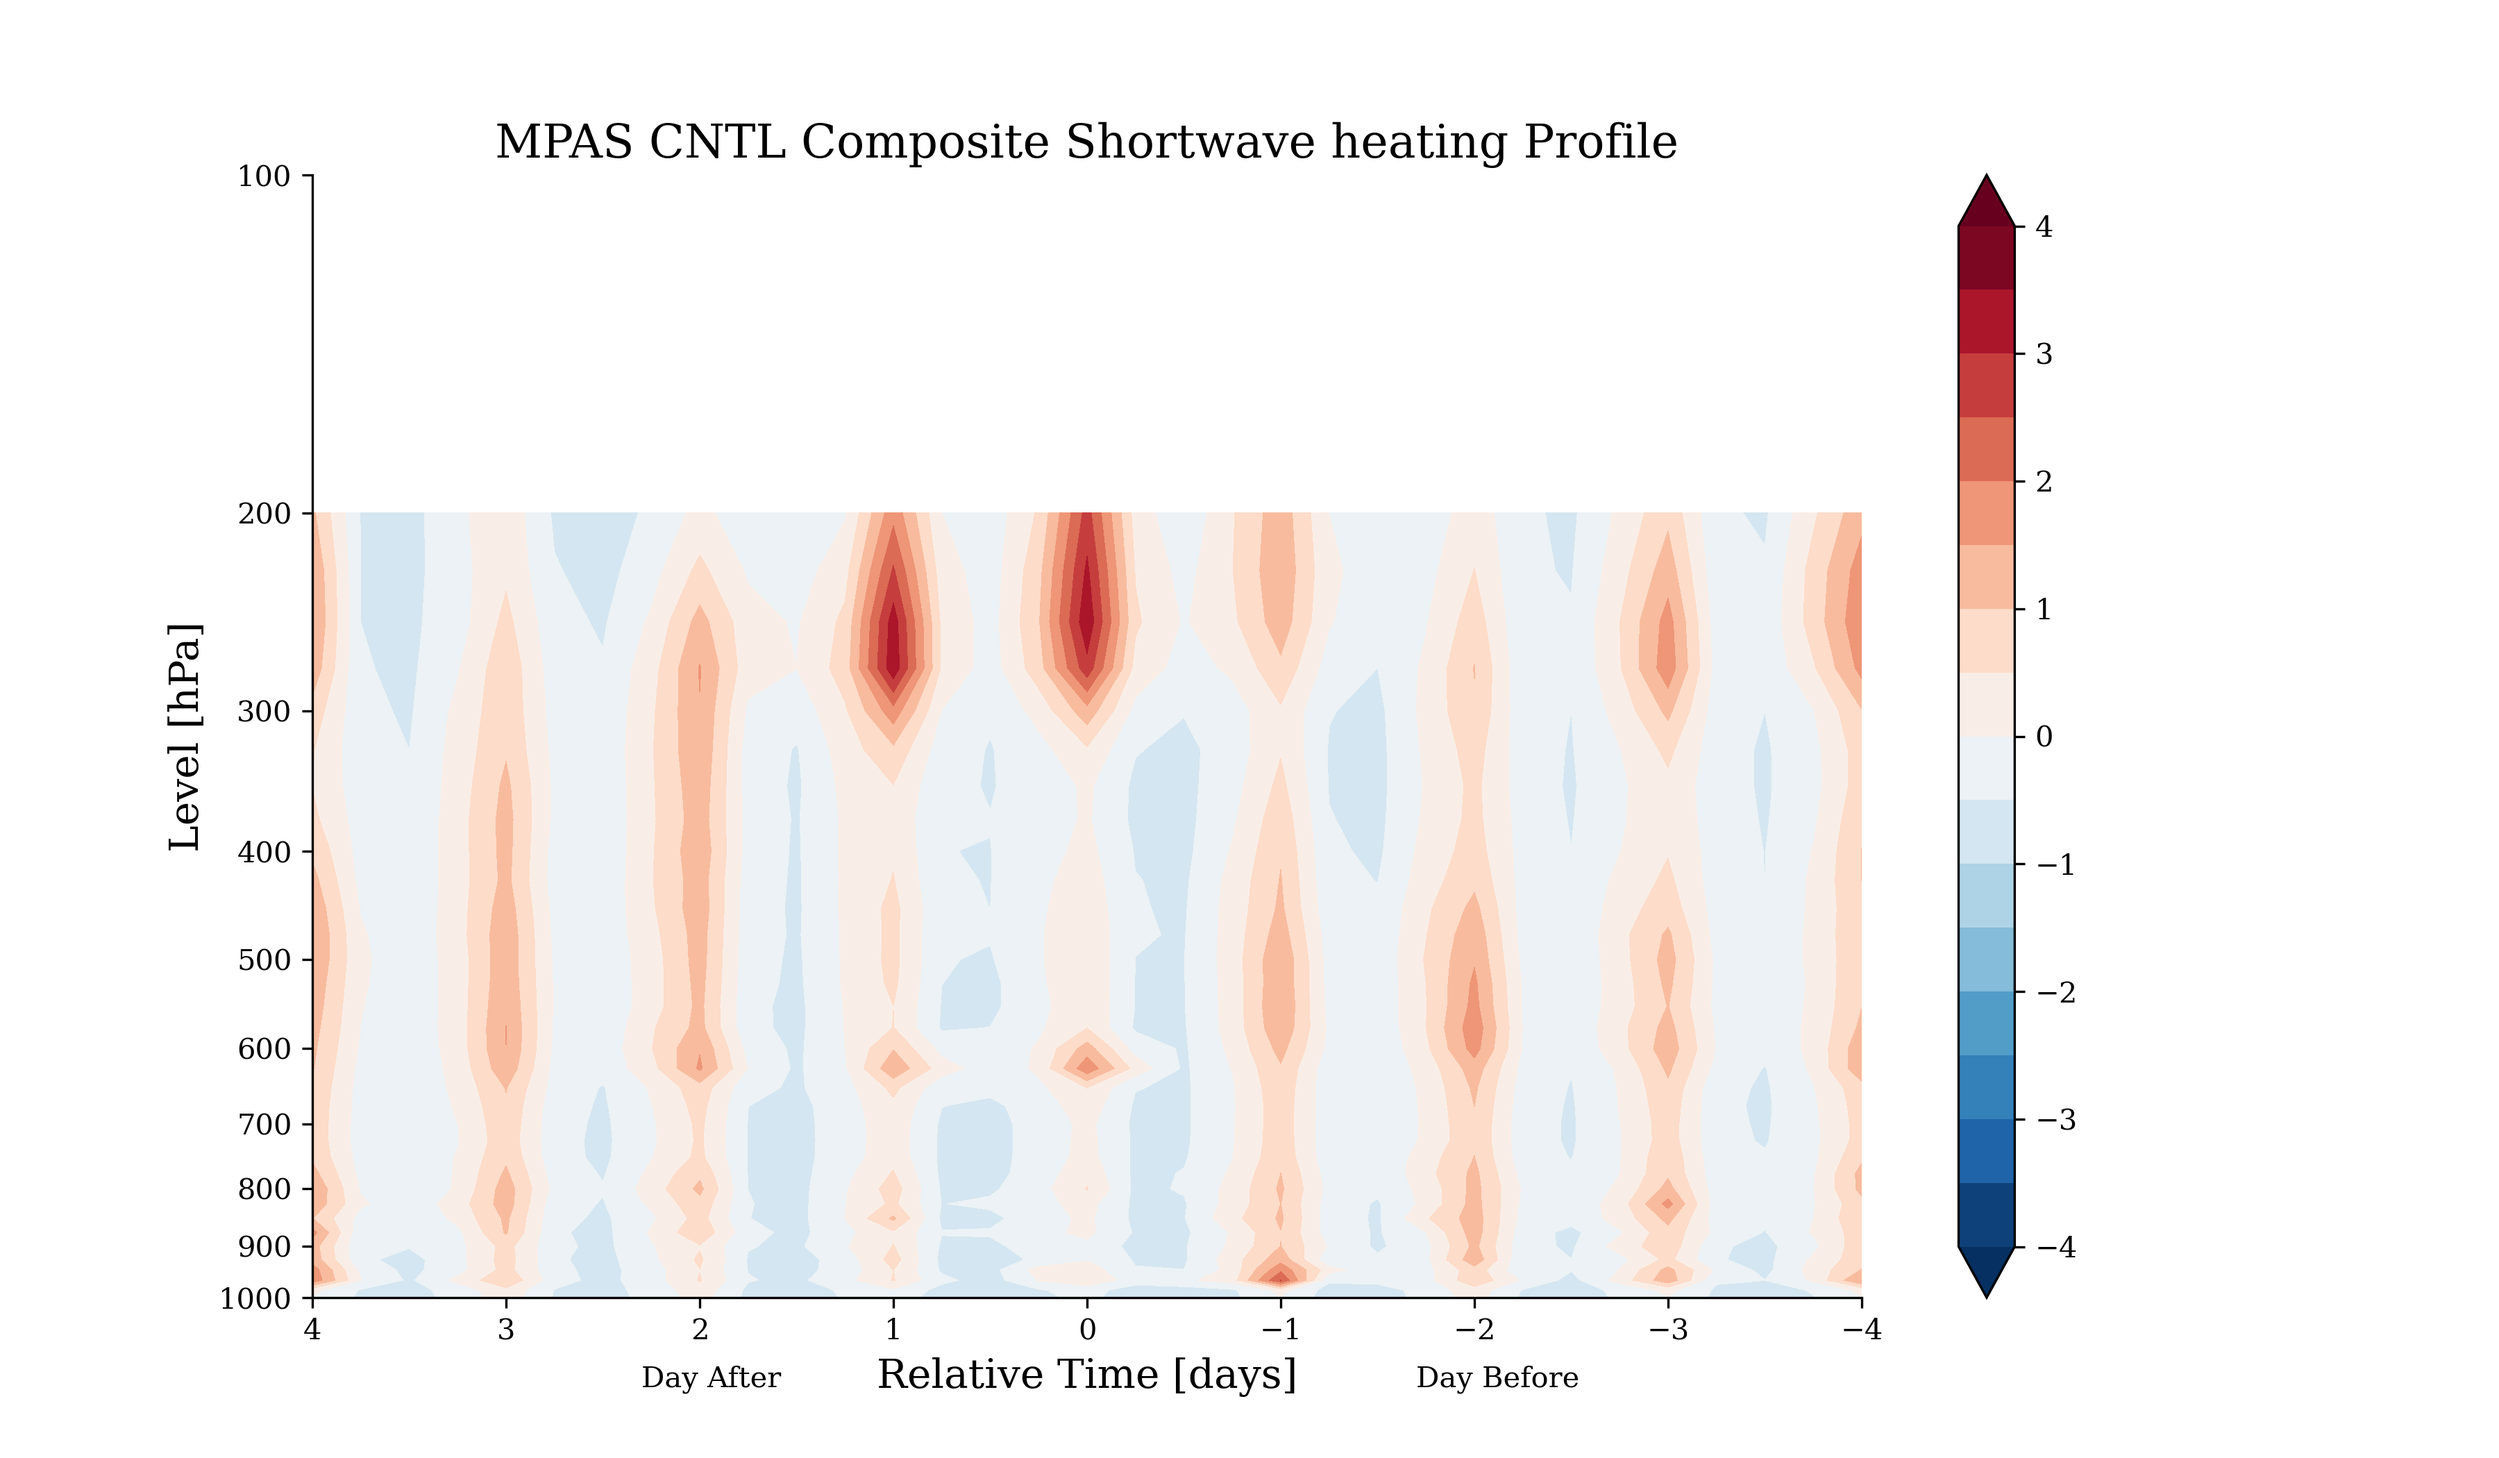
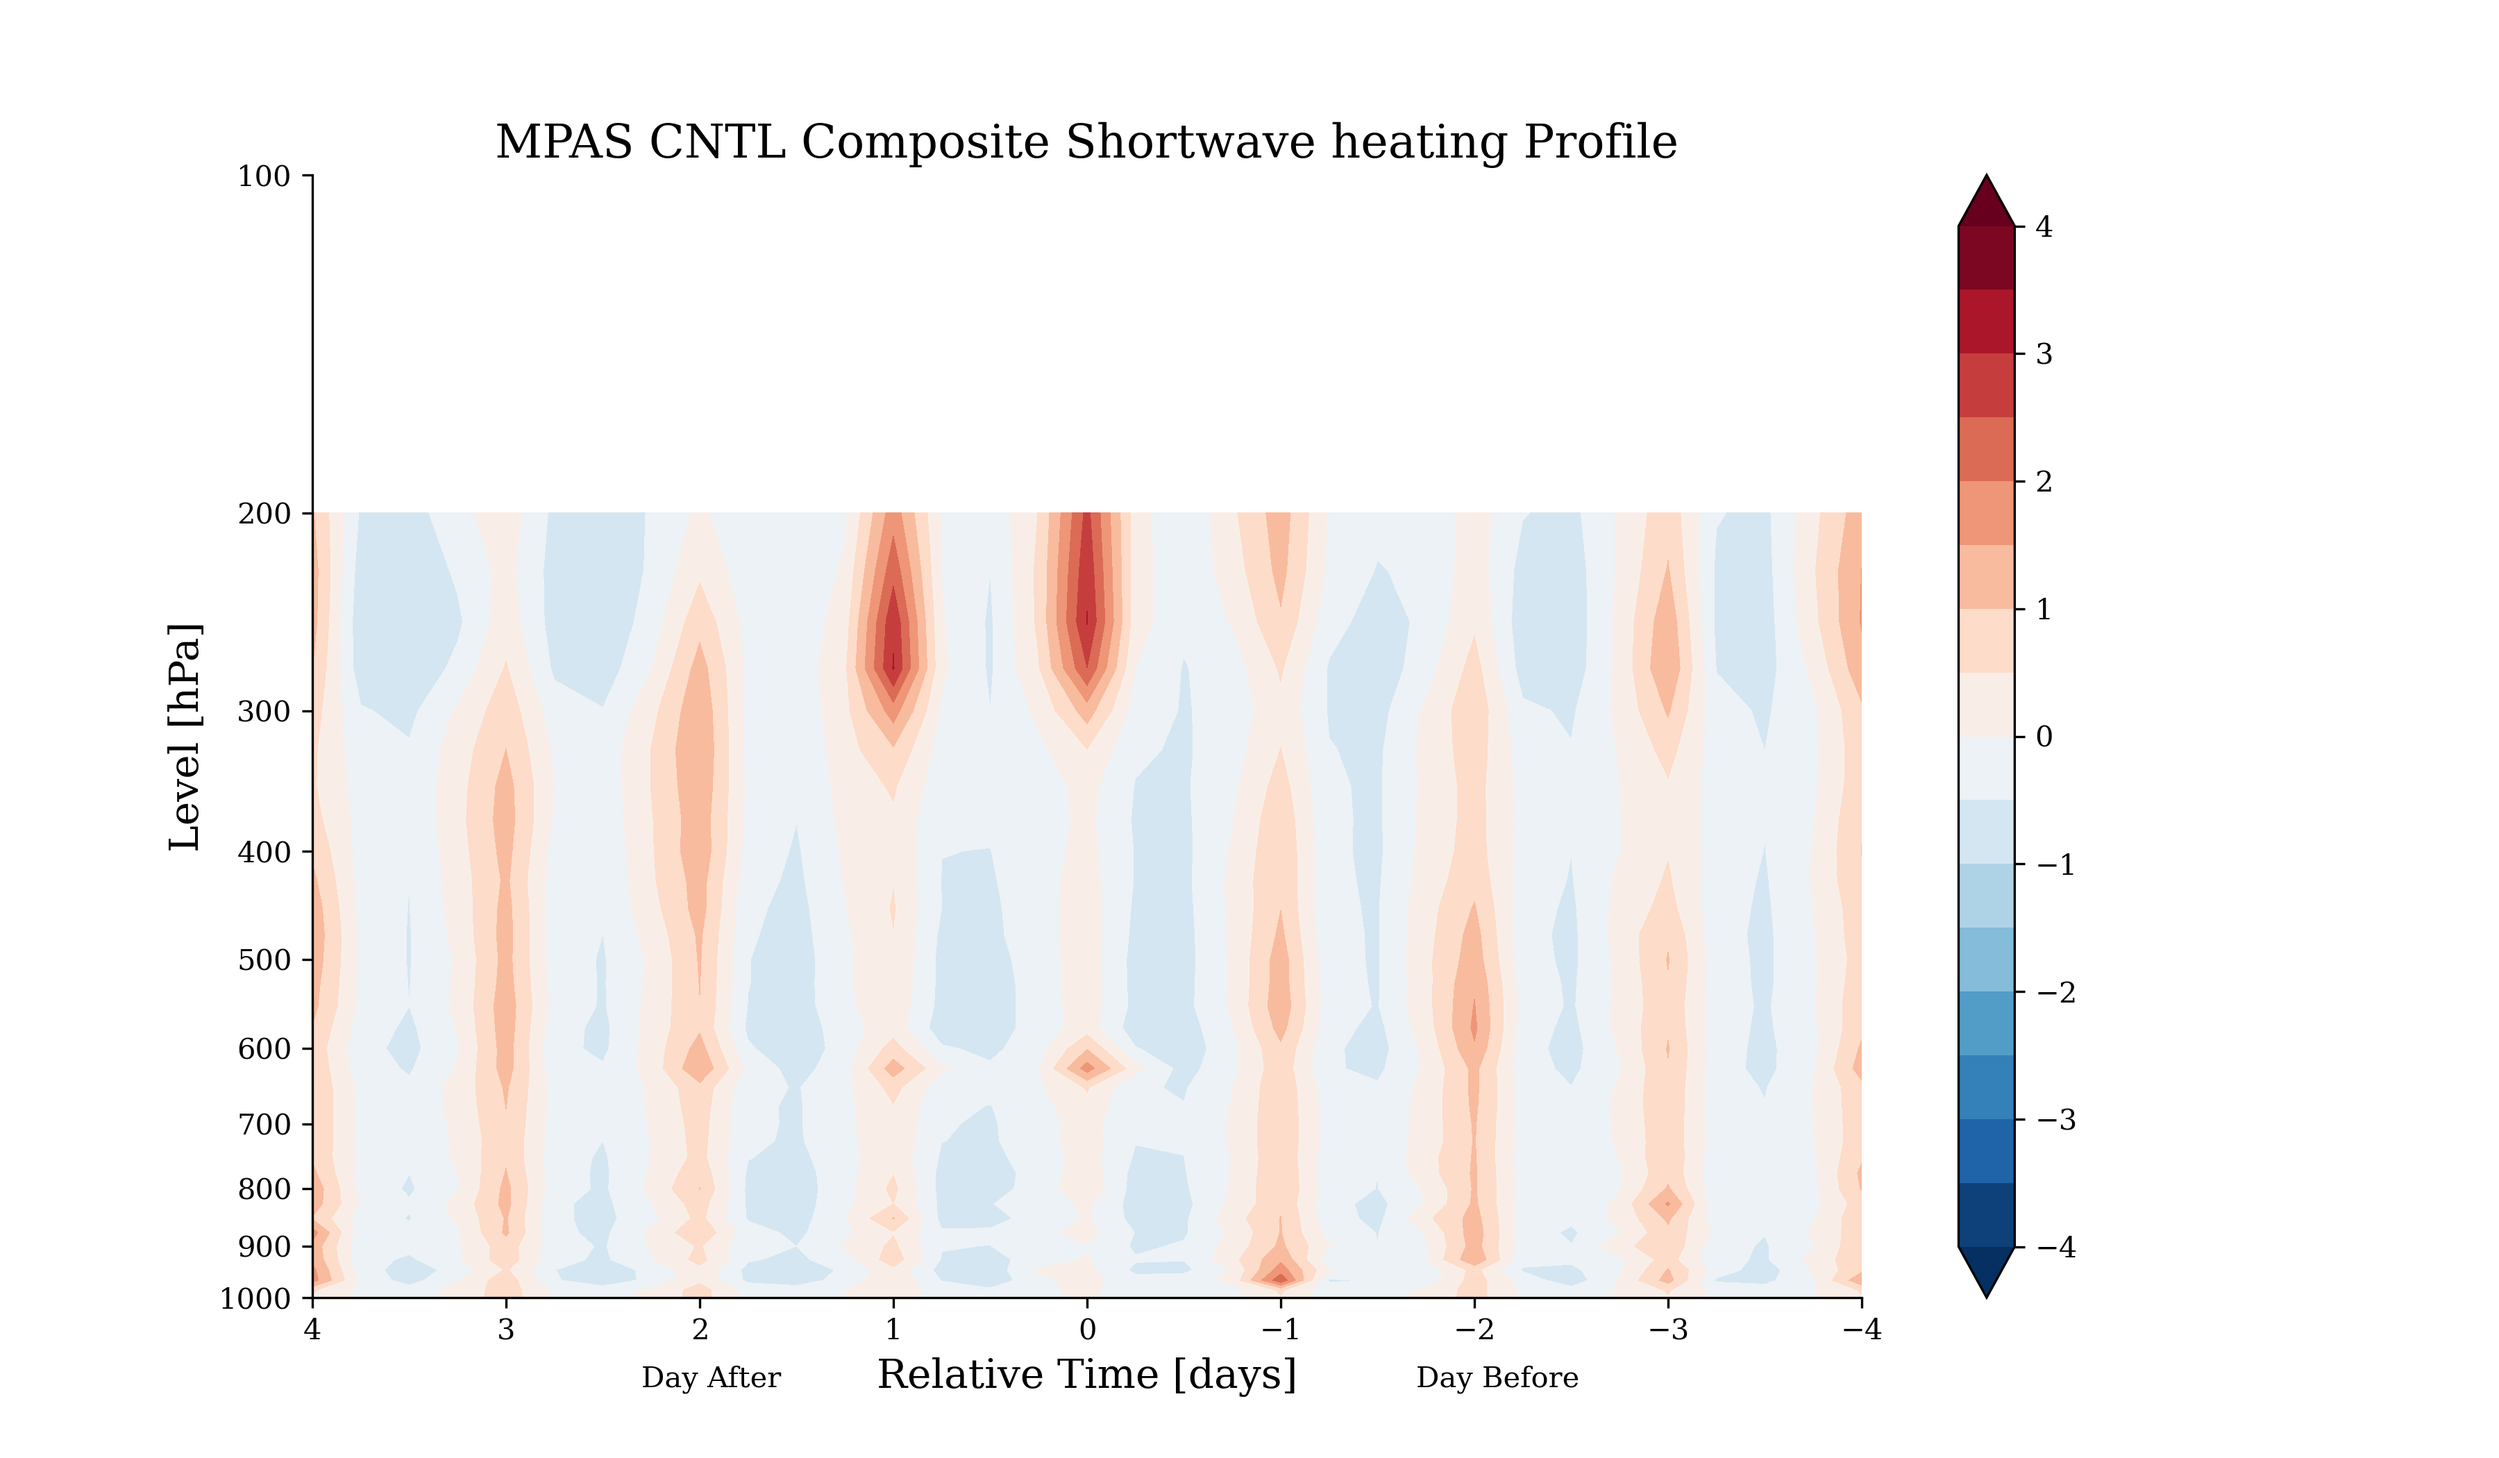
New

diff --git a/MPAS/Composite/raw_composite/MPAS_sourced/raw_LW_SW_comp.py b/MPAS/Composite/raw_composite/MPAS_sourced/raw_LW_SW_comp.py
@@ -45,8 +45,8 @@ time_ticks = np.linspace(-4, 4, 33)
 
 # compute anomaly
 data_ano = dict(
-    lw = data["rthratenlw"] - data["rthratenlw"].mean(),
-    sw = data["rthratensw"] - data["rthratensw"].mean()
+    lw = data["rthratenlw"] - data["rthratenlw"].mean(axis=(0, 2))[None, :, None],
+    sw = data["rthratensw"] - data["rthratensw"].mean(axis=(0, 2))[None, :, None]
 )
 
 # Filter out the selected data
@@ -116,6 +116,30 @@ plt.text(2.3, 1200, 'Day After')
 plt.text(-1.7, 1200, 'Day Before')
 plt.colorbar()
 plt.savefig("/home/b11209013/2024_Research/MPAS/Composite/raw_composite/Raw_comp_image/MPAS_sourced/CNTL_sw_raw_comp.png", dpi=300)
+plt.show()
+
+plt.figure(figsize=(12, 7))
+plt.contourf(
+    time_ticks, dims['lev'][:lev_cond+1],
+    data_sel['lw'][:lev_cond+1] + data_sel['sw'][:lev_cond+1],
+    cmap="RdBu_r",
+    levels=np.linspace(-4, 4, 17),
+    extend="both",
+    norm=TwoSlopeNorm(vcenter=0),
+)
+plt.gca().spines['right'].set_visible(False)
+plt.gca().spines['top'].set_visible(False)
+plt.yscale('log')
+plt.yticks(np.linspace(100, 1000, 10), np.linspace(100, 1000, 10).astype(int))
+plt.xlim(4, -4)
+plt.ylim(1000, 100)
+plt.xlabel("Relative Time [days]")
+plt.ylabel("Level [hPa]")
+plt.title("MPAS CNTL Composite Radiative heating Profile")
+plt.text(2.3, 1200, 'Day After')
+plt.text(-1.7, 1200, 'Day Before')
+plt.colorbar()
+plt.savefig("/home/b11209013/2024_Research/MPAS/Composite/raw_composite/Raw_comp_image/MPAS_sourced/CNTL_qr_raw_comp.png", dpi=300)
 plt.show()
 
 
